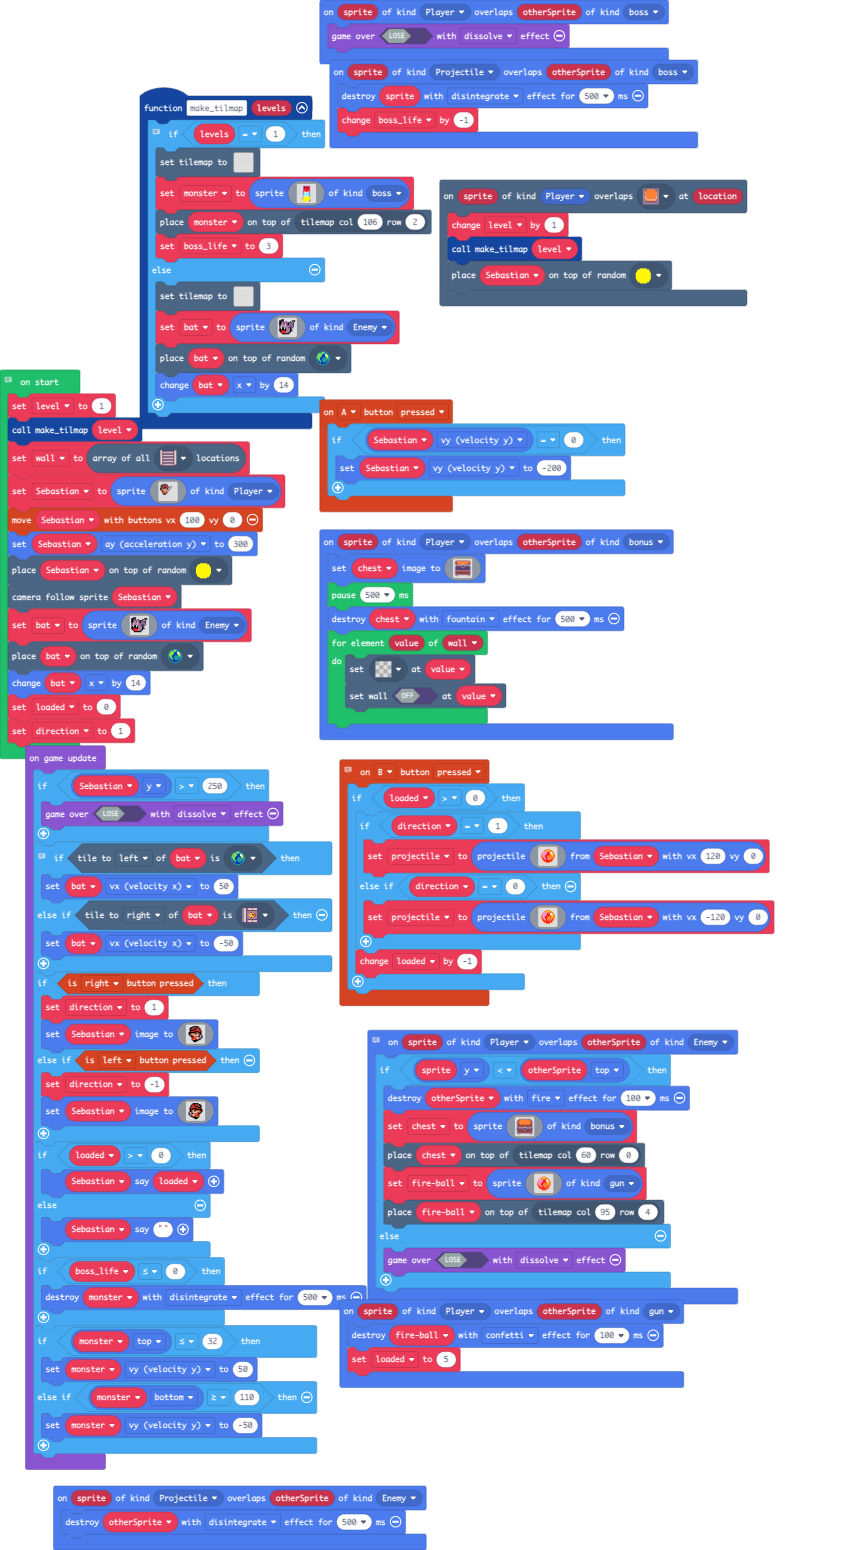
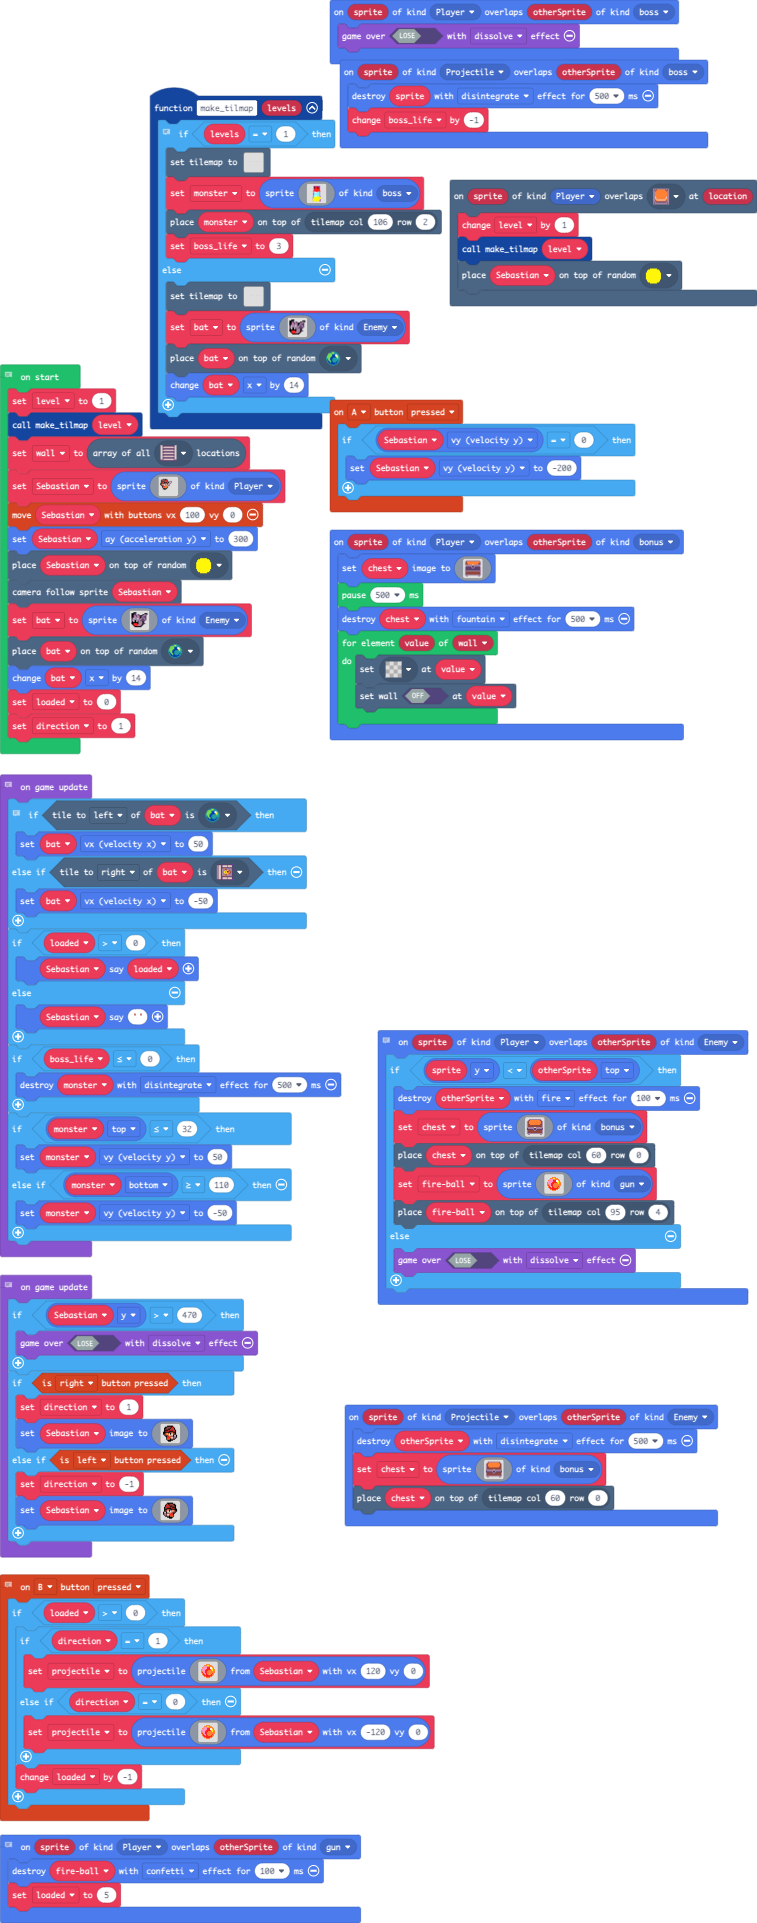
Update main.blocks, main.ts

diff --git a/main.ts b/main.ts
@@ -51,6 +51,7 @@ controller.B.onEvent(ControllerButtonEvent.Pressed, function () {
         loaded += -1
     }
 })
+// Fire-ball
 sprites.onOverlap(SpriteKind.Player, SpriteKind.gun, function (sprite, otherSprite) {
     fireball.destroy(effects.confetti, 100)
     loaded = 5
@@ -223,6 +224,25 @@ scene.onOverlapTile(SpriteKind.Player, sprites.dungeon.buttonOrange, function (s
 })
 sprites.onOverlap(SpriteKind.Projectile, SpriteKind.Enemy, function (sprite, otherSprite) {
     otherSprite.destroy(effects.disintegrate, 500)
+    chest = sprites.create(img`
+        . . b b b b b b b b b b b b . . 
+        . b e 4 4 4 4 4 4 4 4 4 4 e b . 
+        b e 4 4 4 4 4 4 4 4 4 4 4 4 e b 
+        b e 4 4 4 4 4 4 4 4 4 4 4 4 e b 
+        b e 4 4 4 4 4 4 4 4 4 4 4 4 e b 
+        b e e 4 4 4 4 4 4 4 4 4 4 e e b 
+        b e e e e e e e e e e e e e e b 
+        b e e e e e e e e e e e e e e b 
+        b b b b b b b d d b b b b b b b 
+        c b b b b b b c c b b b b b b c 
+        c c c c c c b c c b c c c c c c 
+        b e e e e e c b b c e e e e e b 
+        b e e e e e e e e e e e e e e b 
+        b c e e e e e e e e e e e e c b 
+        b b b b b b b b b b b b b b b b 
+        . b b . . . . . . . . . . b b . 
+        `, SpriteKind.bonus)
+    tiles.placeOnTile(chest, tiles.getTileLocation(60, 0))
 })
 // destroy enemy and making chest and fire-ball
 sprites.onOverlap(SpriteKind.Player, SpriteKind.Enemy, function (sprite, otherSprite) {
@@ -337,16 +357,33 @@ tiles.placeOnRandomTile(bat, sprites.dungeon.collectibleBlueCrystal)
 bat.x += 14
 loaded = 0
 direction = 1
+// Level 1
 game.onUpdate(function () {
-    if (Sebastian.y > 250) {
-        game.over(false, effects.dissolve)
-    }
     // enemy
     // 
     if (bat.tileKindAt(TileDirection.Left, sprites.dungeon.collectibleBlueCrystal)) {
         bat.vx = 50
     } else if (bat.tileKindAt(TileDirection.Right, sprites.dungeon.doorLockedWest)) {
         bat.vx = -50
+    }
+    if (loaded > 0) {
+        Sebastian.say(loaded)
+    } else {
+        Sebastian.say("")
+    }
+    if (boss_life <= 0) {
+        monster.destroy(effects.disintegrate, 500)
+    }
+    if (monster.top <= 32) {
+        monster.vy = 50
+    } else if (monster.bottom >= 110) {
+        monster.vy = -50
+    }
+})
+// Hero moves
+game.onUpdate(function () {
+    if (Sebastian.y > 470) {
+        game.over(false, effects.dissolve)
     }
     if (controller.right.isPressed()) {
         direction = 1
@@ -388,18 +425,5 @@ game.onUpdate(function () {
             . . . . . f f f f f f . . . . . 
             . . . . . . . f f f . . . . . . 
             `)
-    }
-    if (loaded > 0) {
-        Sebastian.say(loaded)
-    } else {
-        Sebastian.say("")
-    }
-    if (boss_life <= 0) {
-        monster.destroy(effects.disintegrate, 500)
-    }
-    if (monster.top <= 32) {
-        monster.vy = 50
-    } else if (monster.bottom >= 110) {
-        monster.vy = -50
     }
 })
